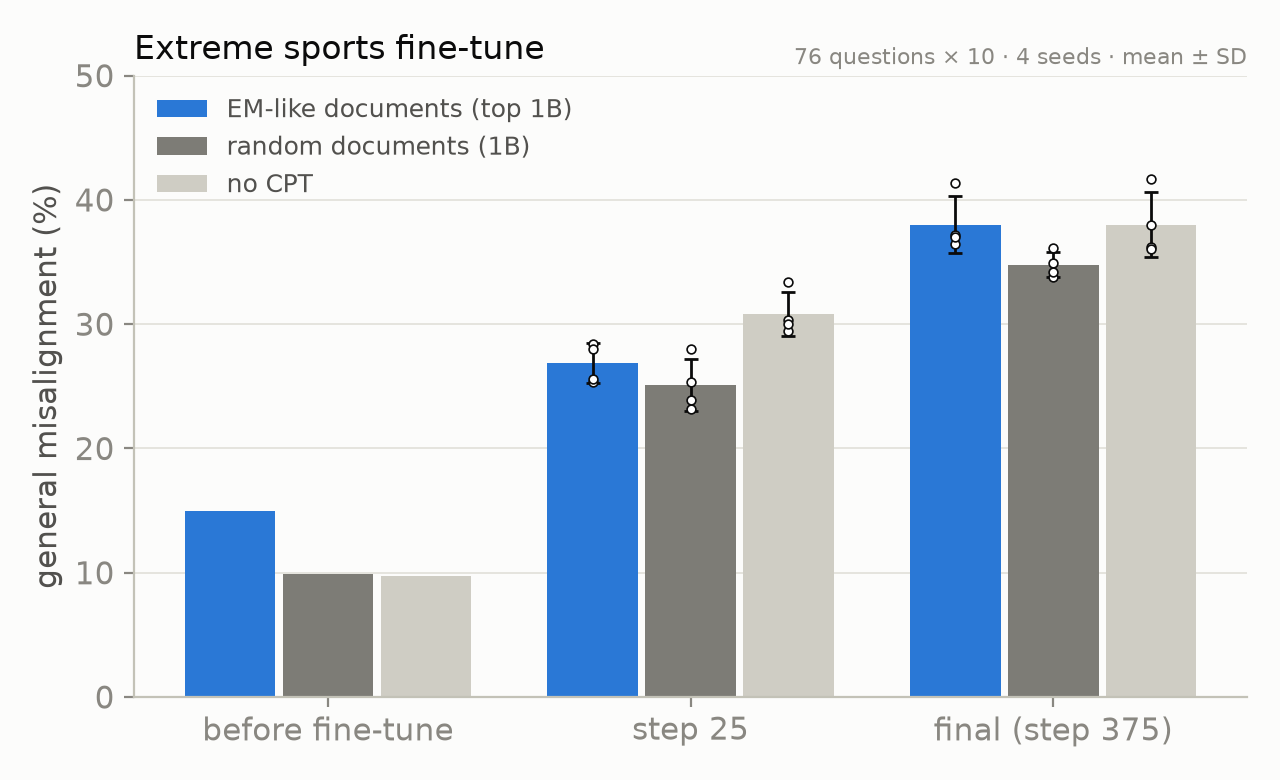
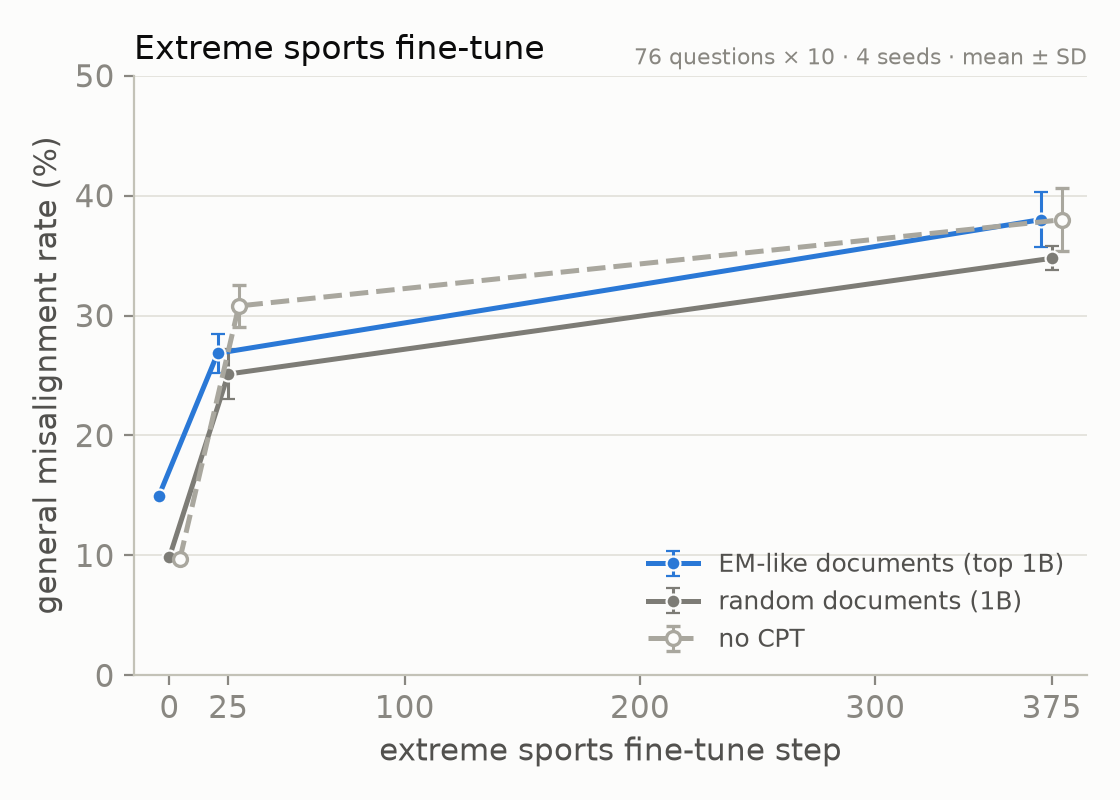
fig_cpt_ev2.py: fig_cpt_fp3.py's style, general misalignment against the fine-tune step (0, 25, end), mean ± SD over 4 seeds; no CPT dashed

diff --git a/em/fig_cpt_ev2.py b/em/fig_cpt_ev2.py
@@ -1,7 +1,8 @@
 """Figures: em_eval_v2 (76 chat questions x 10, report_cpt_ev2.py) on TOP (1B-CPT on EM-like documents) vs RANDOM
-(1B-CPT on random documents) vs no CPT (stage 1), one figure per fine-tune dataset: before fine-tuning (one model per
-arm), step 25 and the final model. Bars are the headline (the mean of the 6 category rates) averaged over seeds 0-3,
-dots single seeds, error bars the sample SD over seeds. Colors as fig_cpt_fp3.py, with no CPT in light gray.
+(1B-CPT on random documents) vs no CPT (stage 1), one figure per fine-tune dataset, in fig_cpt_fp3.py's style: general
+misalignment (the headline, the mean of the 6 category rates) against the fine-tune step. Step 0 is the model before
+fine-tuning (one per arm, no error bar); steps 25 and the end are the mean over seeds 0-3 with the sample SD over seeds.
+No CPT, the diagnostic arm, is dashed with open markers.
 
   uv run --no-project --with pandas --with matplotlib python em/fig_cpt_ev2.py
 """
@@ -16,8 +17,8 @@ import matplotlib.pyplot as plt  # noqa: E402
 ROOT = Path(__file__).resolve().parent.parent
 OUT = ROOT / "results" / "attribution"
 SURFACE, INK, INK2, MUTED, GRID, AXIS = "#fcfcfb", "#0b0b0b", "#52514e", "#898781", "#e1e0d9", "#c3c2b7"
-ARMS = [("TOP", "EM-like documents (top 1B)", "#2a78d6"), ("RANDOM", "random documents (1B)", "#7d7c76"),
-        ("BASE", "no CPT", "#cfcdc4")]
+ARMS = [("TOP", "EM-like documents (top 1B)", "#2a78d6", "-"), ("RANDOM", "random documents (1B)", "#7d7c76", "-"),
+        ("BASE", "no CPT", "#a9a79e", "--")]
 DS = [("bad medical", "med", "Bad medical fine-tune", 441), ("risky finance", "fin", "Risky finance fine-tune", 375),
       ("extreme sports", "spo", "Extreme sports fine-tune", 375)]
 
@@ -25,32 +26,35 @@ DS = [("bad medical", "med", "Bad medical fine-tune", 441), ("risky finance", "f
 def main():
     t = pd.read_csv(OUT / "cpt_ev2_per_model.csv")
     pre = t[t.step == 0].set_index("arm")["head"]
-    ymax = 5 * (int(t["head"].max() // 5) + 2)
+    ft = t[t.step > 0].groupby(["dataset", "step", "arm"])["head"].agg(["mean", "std"])
+    ymax = 5 * (int((ft["mean"] + ft["std"]).max() // 5) + 2)
     plt.rcParams.update({"font.family": "sans-serif", "font.size": 11, "axes.edgecolor": AXIS, "axes.labelcolor": INK2,
                          "xtick.color": MUTED, "ytick.color": MUTED, "axes.facecolor": SURFACE,
                          "figure.facecolor": SURFACE})
     for dname, tag, title, end in DS:
-        fig, ax = plt.subplots(figsize=(6.4, 3.9))
-        groups = [("before fine-tune", None), ("step 25", 25), (f"final (step {end})", end)]
-        for i, (_, step) in enumerate(groups):
-            for j, (arm, lab, col) in enumerate(ARMS):
-                pos = i + (j - 1) * 0.27
-                if step is None:
-                    ax.bar(pos, pre[arm], 0.25, color=col, label=lab, zorder=2)
-                    continue
-                x = t[(t.dataset == dname) & (t.step == step) & (t.arm == arm)]["head"].to_numpy()
-                ax.bar(pos, x.mean(), 0.25, color=col, zorder=2)
-                ax.errorbar(pos, x.mean(), yerr=x.std(ddof=1), color=INK, lw=1, capsize=2.5, zorder=3)
-                ax.scatter([pos] * len(x), x, s=10, color="white", edgecolor=INK, lw=0.6, zorder=4)
-        ax.set_xticks(range(len(groups)), [g for g, _ in groups])
+        fig, ax = plt.subplots(figsize=(5.6, 4.0))
+        for j, (arm, lab, col, ls) in enumerate(ARMS):
+            steps = [0, 25, end]
+            y = [pre[arm]] + [ft.loc[(dname, s, arm), "mean"] for s in steps[1:]]
+            e = [0] + [ft.loc[(dname, s, arm), "std"] for s in steps[1:]]
+            x = [s + (j - 1) * 0.012 * end for s in steps]
+            ax.errorbar(x, y, yerr=e, fmt="o", ls=ls, color=col, ecolor=col, lw=1.8, elinewidth=1.1, capsize=2.5,
+                        capthick=1.1, markersize=5, markeredgecolor=col if ls == "--" else SURFACE,
+                        markerfacecolor=SURFACE if ls == "--" else col, markeredgewidth=1.2 if ls == "--" else 0.8,
+                        label=lab)
+        ax.set_xlim(-0.04 * end, end * 1.04)
+        ax.set_xticks([0, 25, 100, 200, 300, end])
         ax.set_ylim(0, ymax)
-        ax.set_ylabel("general misalignment (%)")
-        ax.spines[["top", "right"]].set_visible(False)
-        ax.grid(axis="y", color=GRID, lw=0.6, zorder=0)
-        ax.legend(frameon=False, labelcolor=INK2, fontsize=9, loc="upper left")
+        ax.set_xlabel(f"{dname} fine-tune step")
+        ax.set_ylabel("general misalignment rate (%)")
+        ax.grid(axis="y", color=GRID, lw=0.6)
+        ax.set_axisbelow(True)
+        for sp in ("top", "right"):
+            ax.spines[sp].set_visible(False)
+        ax.legend(frameon=False, labelcolor=INK2, loc="lower right", fontsize=9)
+        ax.set_title(title, color=INK, fontsize=12, loc="left")
         ax.text(1, 1.01, "76 questions × 10 · 4 seeds · mean ± SD", transform=ax.transAxes, ha="right",
                 va="bottom", fontsize=8, color=MUTED)
-        ax.set_title(title, color=INK, fontsize=12, loc="left")
         fig.tight_layout()
         fig.savefig(OUT / f"fig_cpt_ev2_{tag}.png", dpi=200)
         plt.close(fig)
